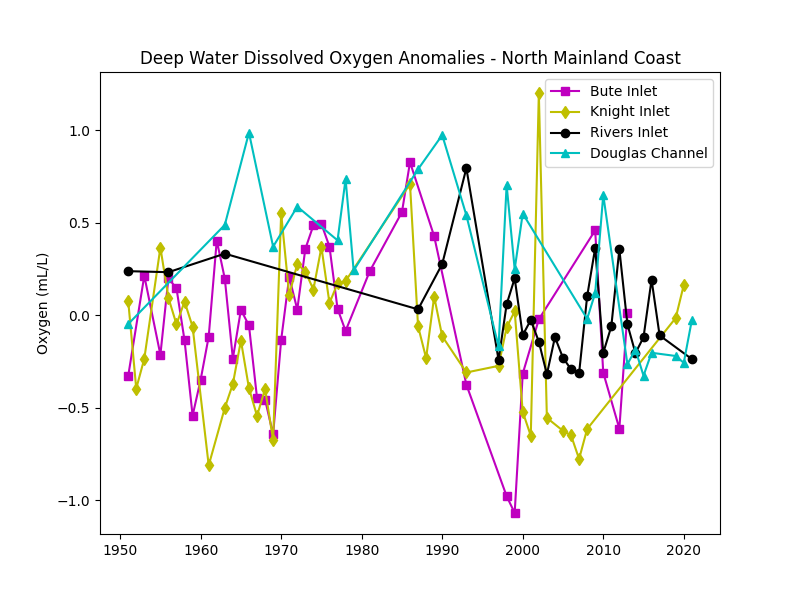
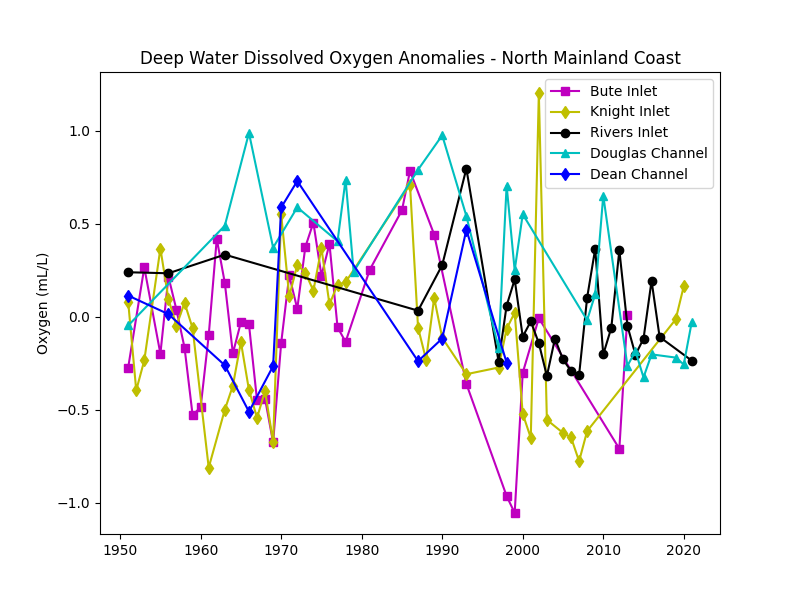
add Dean Channel

diff --git a/get-maps.py b/get-maps.py
@@ -15,6 +15,7 @@ maps = [
     ([-123.7, 48.4, -123.2, 48.8], "500x700", "Saanich Inlet"),
     ([-129.3, 53.3, -128.5, 54.1], "500x700", "Douglas Channel"),
     ([-123.3, 49.2, -122.8, 49.5], "600x600", "Indian Arm"),
+    ([-127.5, 52.3, -126.7, 53.0], "500x700", "Dean Channel"),
 ]
 
 mapbox_url = "https://api.mapbox.com/styles/v1/cyborgsphinx/{}/static/{}/{}"
